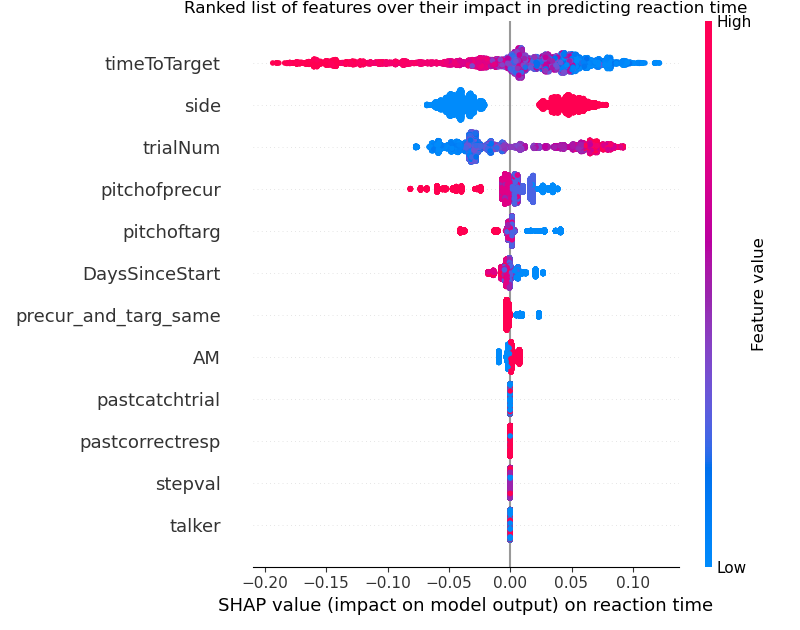
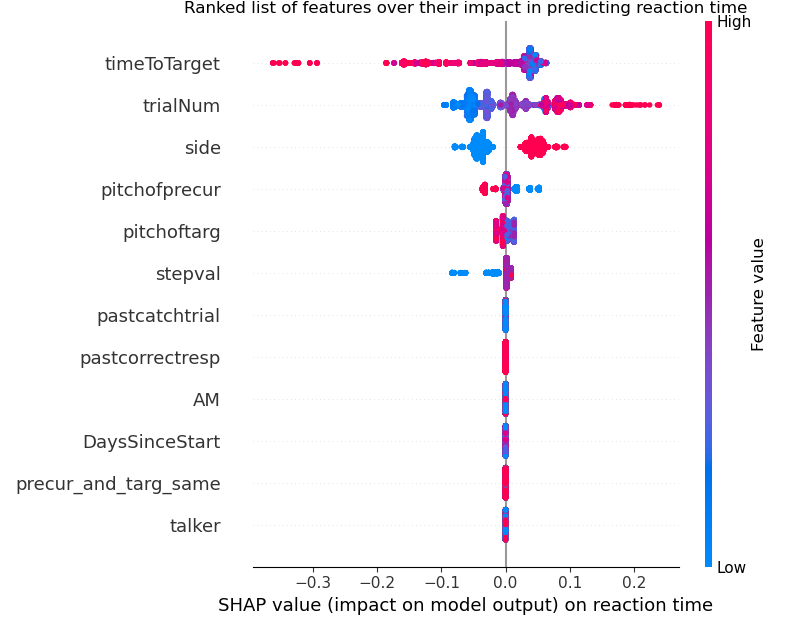
simplifying code

diff --git a/generatemixedeffectsmodelsmodv3simplified.py b/generatemixedeffectsmodelsmodv3simplified.py
@@ -535,6 +535,10 @@ def runlgbreleasetimes(X, y, paramsinput=None):
     # param['eval_metric'] = 'auc'
 
     xg_reg = lgb.LGBMRegressor(random_state=42, verbose=1, **paramsinput)
+    # xg_reg = lgb.LGBMRegressor( colsample_bytree=0.3, learning_rate=0.1,
+    #                           max_depth=10, alpha=10, n_estimators=10, random_state=42, verbose=1)
+
+
     xg_reg.fit(X_train, y_train, verbose=1)
     ypred = xg_reg.predict(X_test)
     lgb.plot_importance(xg_reg)
@@ -799,23 +803,17 @@ def runlgbcorrectresponse(dfx, dfy, paramsinput=None):
 def objective_releasetimes(trial, X, y):
     param_grid = {
         # "device_type": trial.suggest_categorical("device_type", ['gpu']),
-        "colsample_bytree": trial.suggest_float("colsample_bytree", 0.1, 1),
-        "alpha": trial.suggest_float("alpha", 1, 20),
-        "n_estimators": trial.suggest_int("n_estimators", 5, 10000, step=100),
-        "learning_rate": trial.suggest_float("learning_rate", 0.001, 0.5),
-        "num_leaves": trial.suggest_int("num_leaves", 20, 3000, step=10),
-        "max_depth": trial.suggest_int("max_depth", 3, 20),
-        "min_data_in_leaf": trial.suggest_int("min_data_in_leaf", 200, 10000, step=100),
-        "lambda_l1": trial.suggest_int("lambda_l1", 0, 100, step=2),
-        "lambda_l2": trial.suggest_int("lambda_l2", 0, 100, step=2),
-        "min_gain_to_split": trial.suggest_float("min_gain_to_split", 0, 15),
+    #     colsample_bytree = 0.3, learning_rate = 0.1,
+    # max_depth = 10, alpha = 10, n_estimators = 10, random_state = 42, verbose = 1
+        "colsample_bytree": trial.suggest_float("colsample_bytree", 0.1, 0.6),
+        "alpha": trial.suggest_float("alpha", 5, 20),
+        "n_estimators": trial.suggest_int("n_estimators", 2, 100, step=2),
+        "learning_rate": trial.suggest_float("learning_rate", 0.01, 0.3),
+        "max_depth": trial.suggest_int("max_depth", 5, 50),
         "bagging_fraction": trial.suggest_float(
             "bagging_fraction", 0.1, 0.95, step=0.1
         ),
-        "bagging_freq": trial.suggest_int("bagging_freq", 1, 20, step=1),
-        "feature_fraction": trial.suggest_float(
-            "feature_fraction", 0.2, 0.95, step=0.1
-        ),
+        "bagging_freq": trial.suggest_int("bagging_freq", 0, 30, step=1),
     }
 
     cv = KFold(n_splits=5, shuffle=True, random_state=42)
@@ -1666,8 +1664,8 @@ if __name__ == '__main__':
 
     study_release_times = run_optuna_study_releasetimes(dfx.to_numpy(), df_use[col].to_numpy())
     xg_reg, ypred, y_test, results = runlgbreleasetimes(dfx.to_numpy(), df_use[col].to_numpy(), paramsinput=study_release_times.best_params)
-    count = 0
-    for ferret_id in ferrets:
-        xg_reg, ypred, y_test, results, mse = runlgbreleasetimes_for_a_ferret(df_use, ferret=count,
-                                                                              ferret_name=ferret_id)
-        count += 1
+    # count = 0
+    # for ferret_id in ferrets:
+    #     xg_reg, ypred, y_test, results, mse = runlgbreleasetimes_for_a_ferret(df_use, ferret=count,
+    #                                                                           ferret_name=ferret_id)
+    #     count += 1
